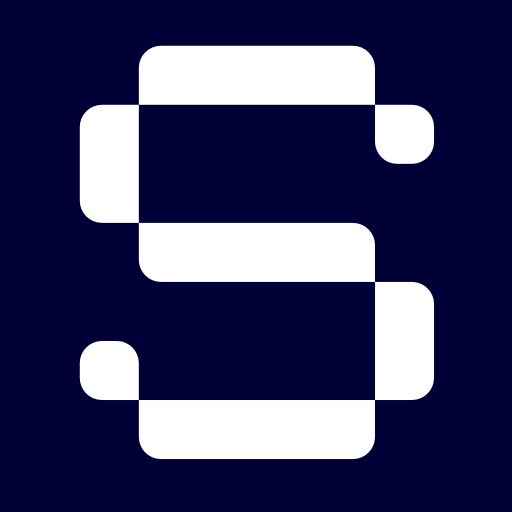
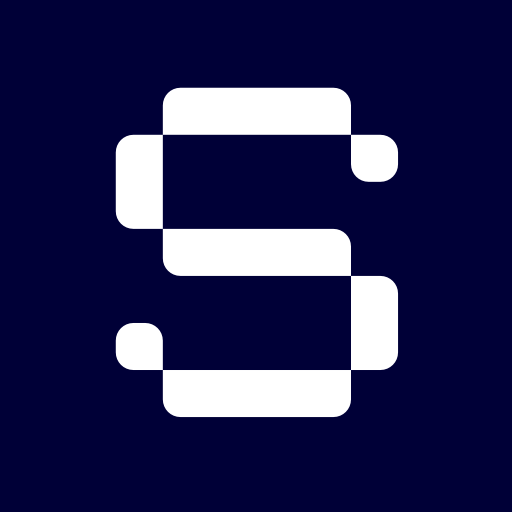
feat: PWA

Changed region(s): [[0.1562, 0.0625, 0.875, 0.9062]]

diff --git a/src/app/modules/calendar/public-calendar.component.ts b/src/app/modules/calendar/public-calendar.component.ts
@@ -40,7 +40,7 @@ import { NgClass, TitleCasePipe, UpperCasePipe } from '@angular/common';
 import { Util } from '@core/util/util';
 import { TeacherSelectComponent } from '@modules/teachers/teacher-select/teacher-select.component';
 import { User } from '@core/models/interface';
-import { ActivatedRoute } from '@angular/router';
+import { ActivatedRoute, Router } from '@angular/router';
 import { ActivityConfig, Degree, Test, School, SchoolClass, LiteEvent } from '@models';
 import { AuthService, EventService, SchoolsService } from '@services';
 import { Button } from '@ui/button/button';
@@ -93,6 +93,7 @@ export class PublicCalendarComponent implements OnInit, OnDestroy {
   private translate = inject(TranslateService);
   private authService = inject(AuthService);
   private activatedRoute = inject(ActivatedRoute);
+  private router = inject(Router);
   private cdr = inject(ChangeDetectorRef);
   private elementRef = inject(ElementRef);
   isLoading = signal(true);
@@ -141,6 +142,7 @@ export class PublicCalendarComponent implements OnInit, OnDestroy {
 
   protected deferredPrompt = signal<any>(null);
   protected showInstallButton = signal<boolean>(true);
+  protected utmSource: string = '';
 
   constructor() {
     this.dialogTitle = 'Add New Event';
@@ -166,6 +168,9 @@ export class PublicCalendarComponent implements OnInit, OnDestroy {
   }
 
   installApp() {
+    // if (this.utmSource === 'PWA') {
+    //   return;
+    // }
     const promptEvent = this.deferredPrompt();
     if (!promptEvent) return;
 
@@ -182,6 +187,16 @@ export class PublicCalendarComponent implements OnInit, OnDestroy {
       this.deferredPrompt.set(null);
       this.showInstallButton.set(false);
     });
+  }
+
+  changeToRestrictManifest() {
+    let link = document.querySelector('link[rel="manifest"]');
+    if (!link) {
+      link = document.createElement('link');
+      link.setAttribute('rel', 'manifest');
+      document.head.appendChild(link);
+    }
+    link.setAttribute('href', 'manifest-restrict.json');
   }
 
   isFormFilterComplete() {
@@ -263,6 +278,13 @@ export class PublicCalendarComponent implements OnInit, OnDestroy {
 
   async ngOnInit(): Promise<void> {
     this.classHash = this.activatedRoute.snapshot.paramMap.get('classHash') || '';
+    if (this.classHash) {
+      localStorage.setItem('classHash', this.classHash);
+    }
+
+    // this.utmSource = this.activatedRoute.snapshot.queryParams['utm_source'];
+    this.changeToRestrictManifest();
+
     if (!this.public) {
       this.eventCategories = await firstValueFrom(this.eventService.getEventCategories());
       this.schools = await lastValueFrom(this.schoolsService.getAll());

diff --git a/src/app/app.routes.ts b/src/app/app.routes.ts
@@ -6,6 +6,7 @@ import { Page404Component } from './modules/sessions/page404/page404.component';
 import { Page500Component } from './modules/sessions/page500/page500.component';
 import { Public } from './core/layout/public/public';
 import { PublicCalendarComponent } from '@modules/calendar/public-calendar.component';
+import { PublicRedirect } from './pages/public-redirect/public-redirect';
 
 export const routes: Routes = [
   {
@@ -123,6 +124,10 @@ export const routes: Routes = [
   {
     path: 'public/calendar/:classHash',
     component: PublicCalendarComponent
+  },
+  {
+    path: 'public/calendar',
+    component: PublicRedirect
   },
   {
     path: '',

diff --git a/src/app/services/storage.service.ts b/src/app/services/storage.service.ts
@@ -8,7 +8,12 @@ export class LocalStorageService {
   storageChange$ = new Subject<StorageEvent>();
 
   get(key: string) {
-    return JSON.parse(localStorage.getItem(key) || '{}') || {};
+    const value = localStorage.getItem(key);
+    try {
+      return JSON.parse(value || '{}') || {};
+    } catch (e) {
+      return value;
+    }
   }
 
   set(key: string, value: any): boolean {

diff --git a/src/app/modules/calendar/public-calendar.component.html b/src/app/modules/calendar/public-calendar.component.html
@@ -1,5 +1,5 @@
 <div [ngClass]="{'public-container': public}">
-  @if (showInstallButton()) {
+  @if (deferredPrompt() && showInstallButton()) {
     <div class="align-items-center d-flex gap-2 justify-content-end w-100">
       <ui-button (onClick)="installApp()" color="primary" size="small" icon="get_app">
         Instalar App
